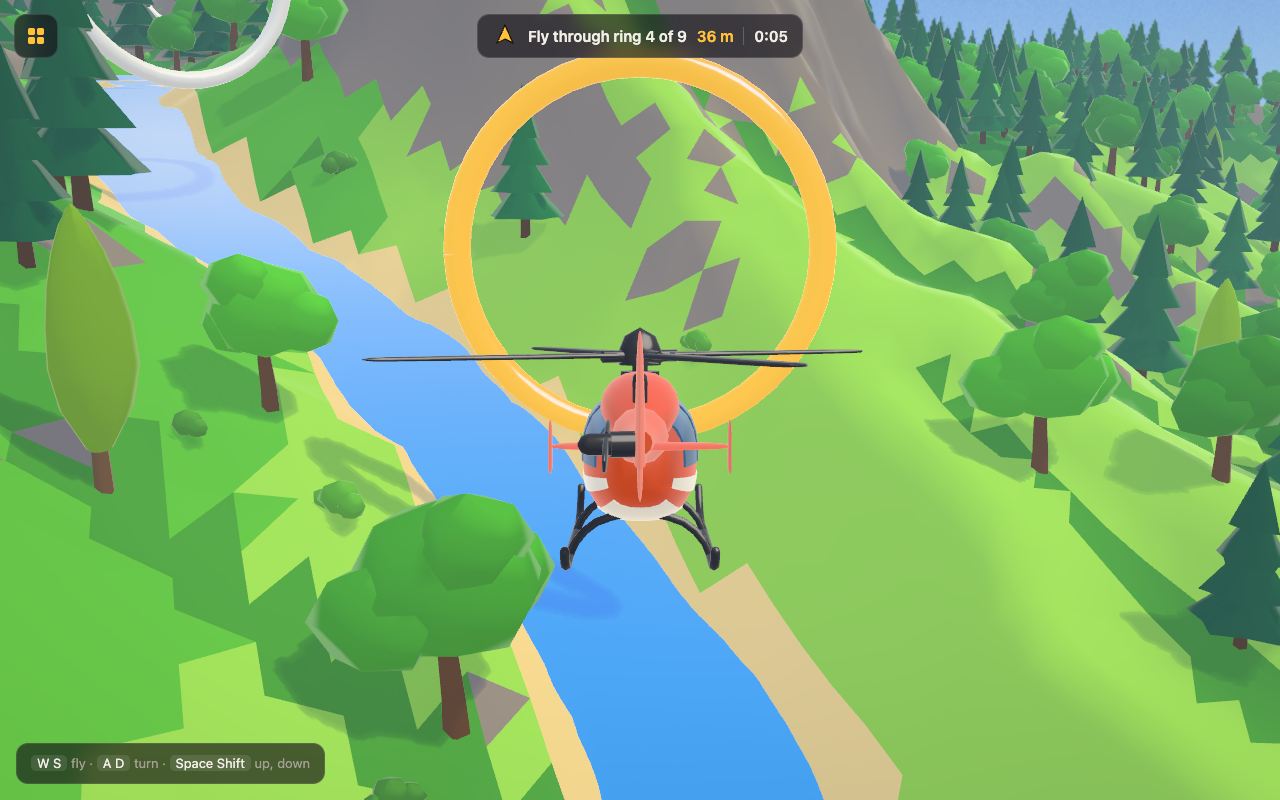
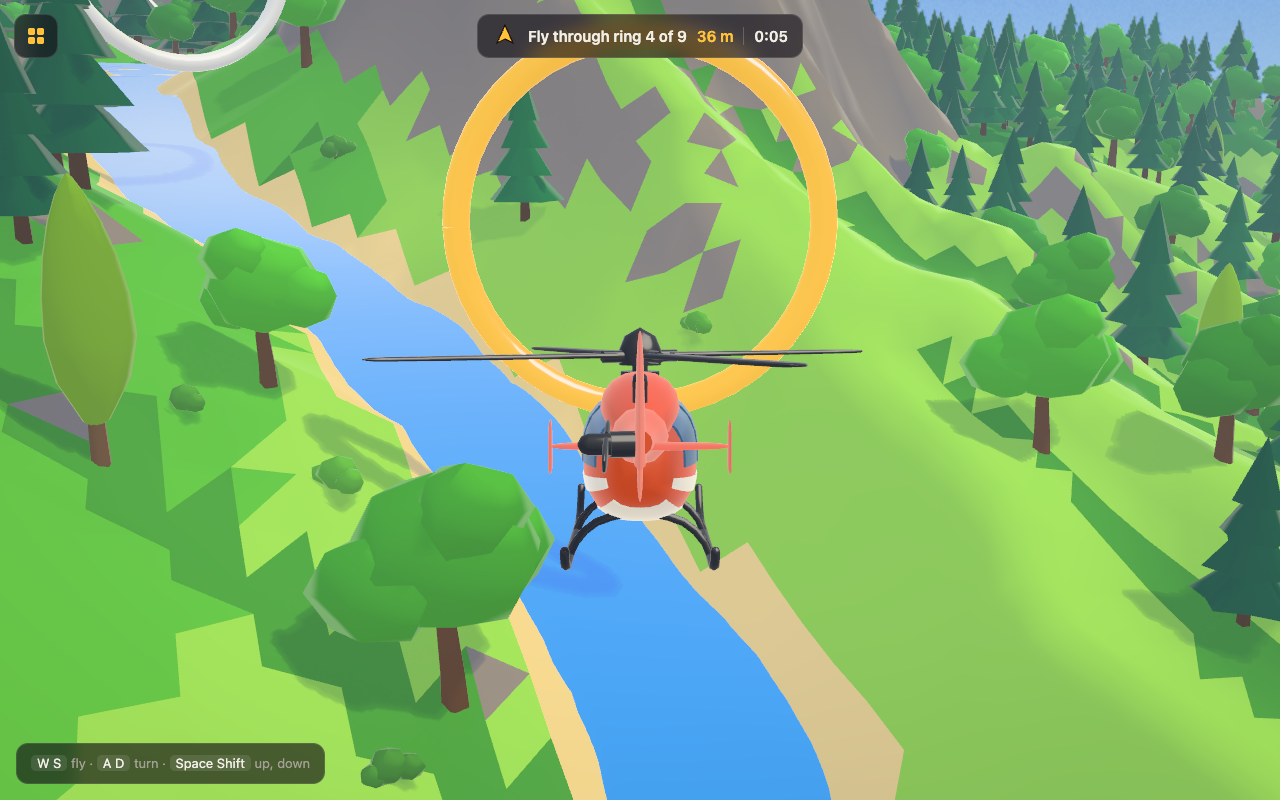
The test API says where the skids rest, so a test that wants the helicopter at a height above the sea puts it there
`teleport` takes a height above the floor, where the helicopter's skids rest, and on a slope the floor is above the
ground: it is the highest of the ground under the middle and under the four corners of its footprint. The smoke
helpers that line the helicopter up on a ring took the ground from the ring's height, so on a slope they put it too
high by as much as the slope lifts its uphill skids. On the meadow and the valley's banks that was a few tenths, and
nothing failed by it; on the steep hillsides the course is to be flown over it was up to 6.4, enough to fly over an
opening instead of through it. The test API gains `floorAt`, the helicopter's own rule for it, and `finish`, the
ring trials' lining up and the look test's take the floor from the height they want.

Three pictures move, and only those, the helicopter now where their words say: the ring trial by 2 pixels and its
phone picture by 3, and the valley's whole view, its helicopter and so its camera a little higher on the valley's
side. Each was looked at. The download grows by the 10 bytes of `floorAt`, to 91,122; the perf baseline's boot and
frame were written with it, 390 ms and 1.44 ms, within their wobble of the 331 ms and 1.43 ms before.

diff --git a/src/debug.ts b/src/debug.ts
@@ -157,6 +157,11 @@ export interface GameApi {
   content(): { bounds: Bounds; world: Bounds; ceiling: number; seaLevel: number; pads: PadInfo[]; home: PadInfo };
   /** The height of the ground at a point: the land, the water over it or a pad's top. A helicopter there rests at `floor`, which on a slope is a little higher. */
   groundAt(x: number, y: number): number;
+  /**
+   * Where a helicopter at a point rests: the ground, and on a slope a little higher, so its skids are on it. What
+   * `teleport`'s height is over, so a test that wants it at a height above the sea takes this from it.
+   */
+  floorAt(x: number, y: number): number;
 
   /** Every tree whose foot is within `radius` of a point across the ground, nearest first. */
   treesNear(x: number, y: number, radius: number): TreeInfo[];
@@ -299,6 +304,7 @@ export function createApi(host: DebugHost): GameApi {
       home: padInfo(game.island.pads[0]),
     }),
     groundAt: (x, y) => game.island.ground.heightAt(x, y),
+    floorAt: (x, y) => helicopter.floorAt(x, y),
     treesNear(x, y, radius) {
       const { trees, treeCount } = game.island;
       const found: (TreeInfo & { d: number })[] = [];

diff --git a/smoke/game.ts b/smoke/game.ts
@@ -168,7 +168,7 @@ export async function finish(page: Page) {
         if (step.kind === 'ring') {
           const [ax, ay] = [Math.cos(step.yaw), Math.sin(step.yaw)];
           const [x, y] = [step.x - ax * 12, step.y - ay * 12];
-          g.teleport(x, y, step.z - middle - g.groundAt(x, y), step.yaw);
+          g.teleport(x, y, step.z - middle - g.floorAt(x, y), step.yaw);
           g.fly(1, 0, hover);
           g.step(90);
           g.release();

diff --git a/smoke/look.spec.ts b/smoke/look.spec.ts
@@ -70,7 +70,7 @@ async function ringAhead(page: Page, id: string, ring: number, back: number) {
       const before = (k: number, d: number) => {
         const r = rings[k];
         const [x, y] = [r.x - Math.cos(r.yaw) * d, r.y - Math.sin(r.yaw) * d];
-        g.teleport(x, y, r.z - middle - g.groundAt(x, y), r.yaw);
+        g.teleport(x, y, r.z - middle - g.floorAt(x, y), r.yaw);
       };
       for (let k = 0; k < n; k++) {
         before(k, 12);

diff --git a/smoke/rings.spec.ts b/smoke/rings.spec.ts
@@ -21,7 +21,7 @@ async function before(page: Page, ring: Ring, back: number, across = 0) {
       const g = window.game!;
       const [ax, ay] = [Math.cos(r.yaw), Math.sin(r.yaw)];
       const [x, y] = [r.x - ax * b - ay * c, r.y - ay * b + ax * c];
-      g.teleport(x, y, r.z - middle - g.groundAt(x, y), r.yaw);
+      g.teleport(x, y, r.z - middle - g.floorAt(x, y), r.yaw);
     },
     [ring, back, across, HELICOPTER.size.middle] as const,
   );

diff --git a/CLAUDE.md b/CLAUDE.md
@@ -138,7 +138,9 @@ says why. Look at every picture.
 - `src/debug.ts` is `window.game`, the test API: time, the seed, the
   helicopter (`fly`, whose lift of `HOVER_LIFT` holds the height, since
   nothing held sinks; `release`; `teleport`, which takes a height above the
-  ground and not a height above the sea), the ground (`groundAt`), what is
+  floor, where the skids rest, and not a height above the sea), the ground
+  (`groundAt`, and `floorAt`, which on a slope is higher, so a test that
+  wants a height above the sea takes the floor from it), what is
   on the island (`content`: the pads, home, the bounds and the ceiling), the
   level (`state().mission`, `events()`, which takes what the game has
   told, `restart`, and `play`, which flies any level as the list does, locked
